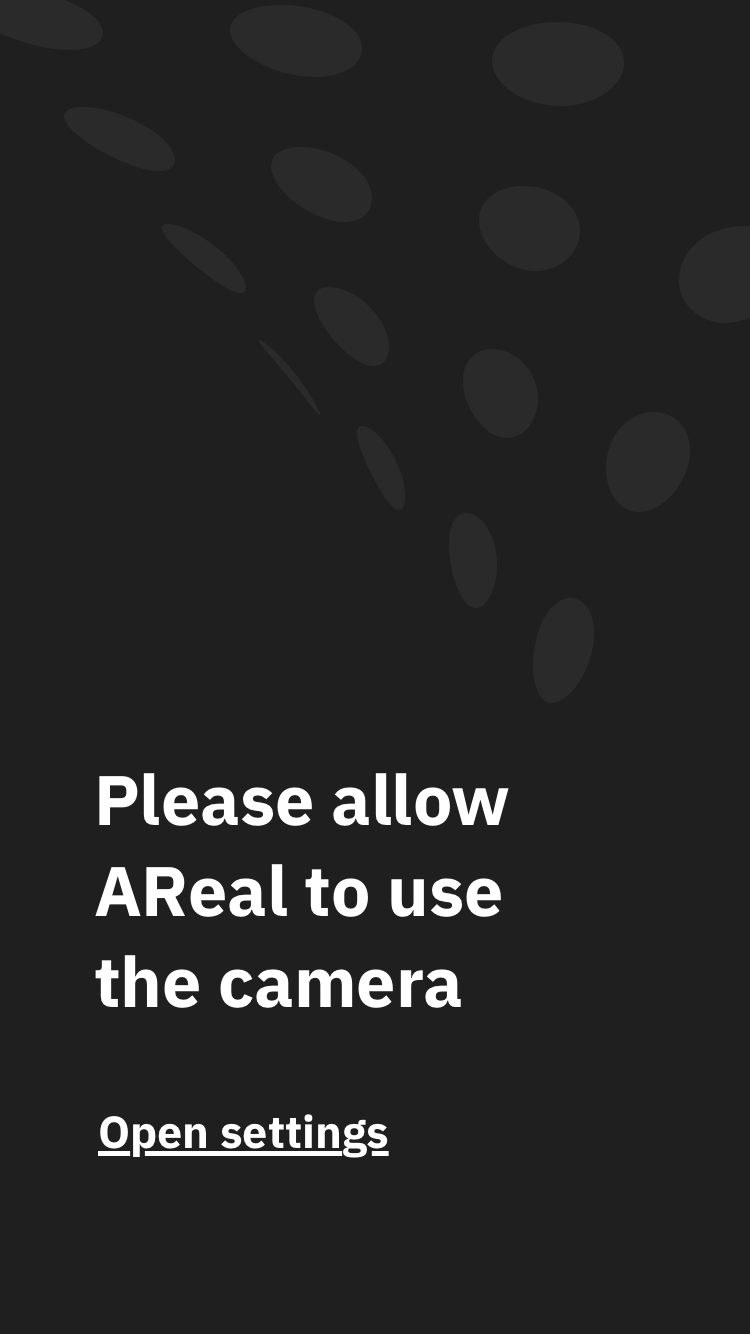
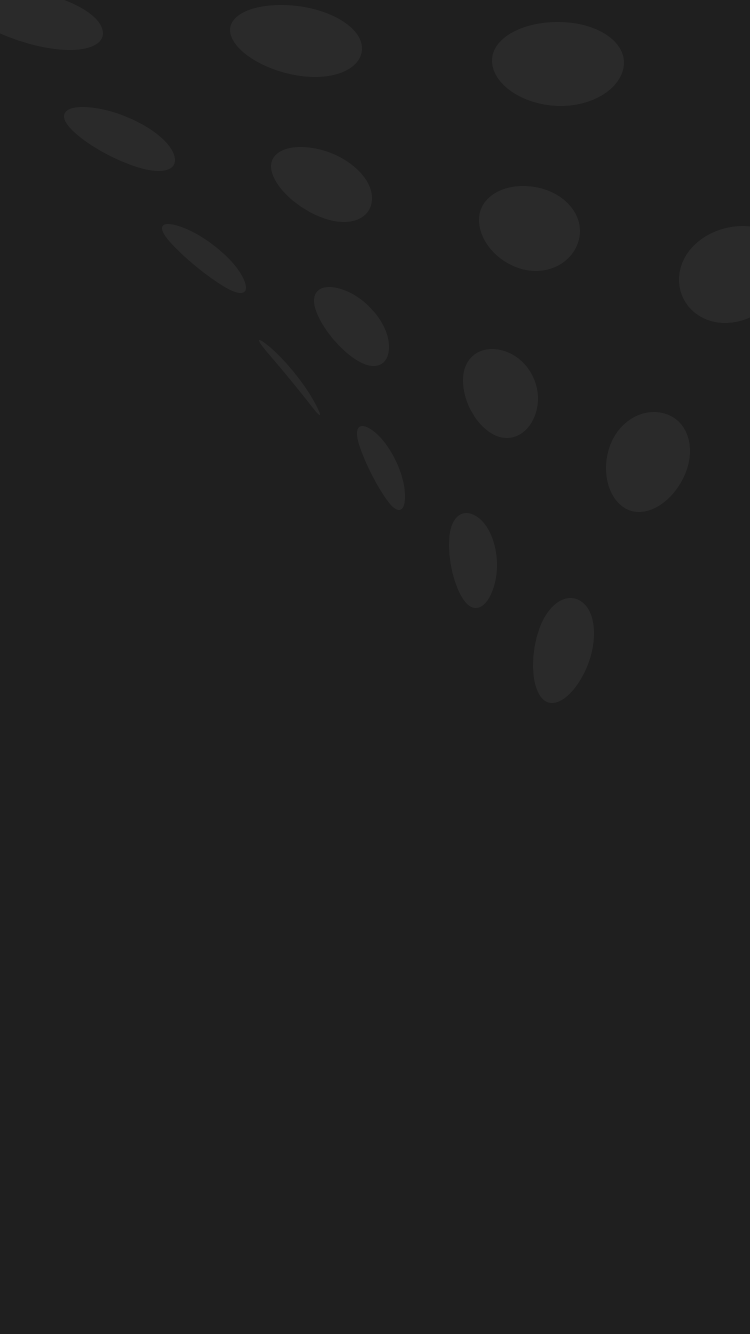
todo share

Changed region(s): [[0.1227, 0.584, 0.6747, 0.7684], [0.1227, 0.8298, 0.5213, 0.8913]]

diff --git a/Assets/Scripts/CanvasController.cs b/Assets/Scripts/CanvasController.cs
@@ -68,15 +68,15 @@ public class CanvasController : MonoBehaviour {
 		hide_info_Button();
 		hide_screenShot_btn ();
 		isFirstSession = SaveManager.Instance.session_state.isFirstEnter;
-		Debug.Log("mySession - " + isFirstSession);
 
 
 
 		if(!isFirstSession){
-			startGeneratePlane();
 			show_info_Button();
 		} 
-		else show_intro();
+
+
+		startGeneratePlane();
 
 		bool isX = UnityEngine.iOS.Device.generation == UnityEngine.iOS.DeviceGeneration.iPhoneX;
 		if(isX){
@@ -85,16 +85,16 @@ public class CanvasController : MonoBehaviour {
 			find_surface_Panel.transform.position += new Vector3(0,-120f,0);			
 		}
 
-		if (UnityEngine.iOS.Device.generation == UnityEngine.iOS.DeviceGeneration.iPadPro10Inch1Gen || 
-		UnityEngine.iOS.Device.generation == UnityEngine.iOS.DeviceGeneration.iPadPro10Inch2Gen || 
-		UnityEngine.iOS.Device.generation == UnityEngine.iOS.DeviceGeneration.iPad5Gen){
-			mIpadupperPanel.transform.position += new Vector3(0,400,0);
-			mIpadbotPanel.transform.position += new Vector3(0,400,0);
-		} else if (UnityEngine.iOS.Device.generation == UnityEngine.iOS.DeviceGeneration.iPadPro2Gen ||
-		UnityEngine.iOS.Device.generation == UnityEngine.iOS.DeviceGeneration.iPadPro1Gen){
-			mIpadupperPanel.transform.position += new Vector3(0,450,0);
-			mIpadbotPanel.transform.position += new Vector3(0,450,0);
-		}
+		// if (UnityEngine.iOS.Device.generation == UnityEngine.iOS.DeviceGeneration.iPadPro10Inch1Gen || 
+		// UnityEngine.iOS.Device.generation == UnityEngine.iOS.DeviceGeneration.iPadPro10Inch2Gen || 
+		// UnityEngine.iOS.Device.generation == UnityEngine.iOS.DeviceGeneration.iPad5Gen){
+		// 	mIpadupperPanel.transform.position += new Vector3(0,400,0);
+		// 	mIpadbotPanel.transform.position += new Vector3(0,400,0);
+		// } else if (UnityEngine.iOS.Device.generation == UnityEngine.iOS.DeviceGeneration.iPadPro2Gen ||
+		// UnityEngine.iOS.Device.generation == UnityEngine.iOS.DeviceGeneration.iPadPro1Gen){
+		// 	mIpadupperPanel.transform.position += new Vector3(0,450,0);
+		// 	mIpadbotPanel.transform.position += new Vector3(0,450,0);
+		// }
 	}
 
 //
@@ -212,6 +212,9 @@ public class CanvasController : MonoBehaviour {
 	void startGeneratePlane(){
 		intro_Panel.SetActive(false);
 		generatePlaneScript.initStart();
+		Invoke("showFirstHelp",0.3f);
+	}
+	private void showFirstHelp(){
 		show_find_surface_info();
 	}
 	private void setCanvasAnimatorParametr(int transitionState){

diff --git a/Assets/CameraPermissionChecker.cs b/Assets/CameraPermissionChecker.cs
@@ -7,7 +7,6 @@ using System.IO;
 using UnityEngine.SceneManagement;
 
 public class CameraPermissionChecker : MonoBehaviour {
-    [SerializeField] private Image warningBoard;
 	[SerializeField] private GameObject backGround_Panel;
 
 	[SerializeField] SupCanvasController ccontroller;
@@ -16,36 +15,16 @@ public class CameraPermissionChecker : MonoBehaviour {
 	private bool permissionAsked = false;
 
 
-    private void SampleCallback(string permissionWasGranted)
-    {       
-        if (permissionWasGranted == "true" )
-        {
-			loadScene();
-        }
-        else
-        {
-			warningBoard.gameObject.SetActive(true);
-			ccontroller.hide_backGround_Panel();
-        }
-		SaveManager.Instance.permission_state.isPermissionAsked = true;
-		SaveManager.Instance.SavePermissionRequest();
-    }
+
 
 	void Start () {
-		permissionAsked = SaveManager.Instance.permission_state.isPermissionAsked;
-		Debug.Log("permissionAsked res - " + permissionAsked);
-		ccontroller.setIntroVisible(!permissionAsked);
+		permissionAsked = SaveManager.Instance.session_state.isPermissionRequested;
+		var isFirstSession = SaveManager.Instance.session_state.isFirstEnter;
+		ccontroller.setIntroVisible(isFirstSession);
 
 		if (permissionAsked){
-			verifyPermission();
-			
-			
-		} else {
-			
-			Debug.Log("NoPermission");
-		}
-
-		
+			verifyPermission();	
+		} 
 	}
 
 	public void verifyPermission(){
@@ -55,6 +34,19 @@ public class CameraPermissionChecker : MonoBehaviour {
 	private void loadScene(){
 		SceneManager.LoadScene("ArealMainScene",LoadSceneMode.Single);
 	}
+	    private void SampleCallback(string permissionWasGranted)
+    {       
+        if (permissionWasGranted == "true" )
+        {
+			loadScene();
+        }
+        else
+        {
+			ccontroller.showWarningText();
+        }
+
+		SaveManager.Instance.SavePermissionRequest();
+    }
 }
 
 

diff --git a/Assets/Scripts/SaveManager.cs b/Assets/Scripts/SaveManager.cs
@@ -9,10 +9,6 @@ public class SaveManager : MonoBehaviour {
 	public SaveState.PermissionState permission_state;
 	public SaveState session_state;
 
-	public int SCENE = 1;
-
-	private int MAIN_SCENE = 1;
-	private int SUPPORT_SCENE = 0;
 
 	private void Awake() {
 
@@ -27,26 +23,22 @@ public class SaveManager : MonoBehaviour {
 		PlayerPrefs.SetString(SAVE_SASSION_KEY, SaveHelper.Serialize<SaveState>(session_state));
 	}
 	public void SavePermissionRequest(){
+
 		permission_state.isPermissionAsked = true;
 		PlayerPrefs.SetString(SAVE_PERMISSION_REQUEST_KEY, SaveHelper.Serialize<SaveState.PermissionState>(permission_state));
 	}
 
 	public void Load() {
-		if( SCENE == MAIN_SCENE) {
-			if(PlayerPrefs.HasKey(SAVE_SASSION_KEY)){
-				session_state = SaveHelper.Deserialize<SaveState>(PlayerPrefs.GetString(SAVE_SASSION_KEY));
-			}else{
-				session_state = new SaveState();
-				session_state.isFirstEnter = true;
-			}
+		Debug.Log("Checker manager started");
+
+		if(PlayerPrefs.HasKey(SAVE_SASSION_KEY)){
+			session_state = SaveHelper.Deserialize<SaveState>(PlayerPrefs.GetString(SAVE_SASSION_KEY));
+			session_state.isPermissionRequested = true;
+		} else {
+			session_state = new SaveState();
+			session_state.isFirstEnter = true;
+			session_state.isPermissionRequested = false;
+		}
 			
-		} else if (SCENE == SUPPORT_SCENE) {
-			if(PlayerPrefs.HasKey(SAVE_PERMISSION_REQUEST_KEY)){
-				permission_state = SaveHelper.Deserialize<SaveState.PermissionState>(PlayerPrefs.GetString(SAVE_PERMISSION_REQUEST_KEY));
-			} else {
-				permission_state = new SaveState.PermissionState();
-				permission_state.isPermissionAsked = false;
-			}	
-		} 
 	}
 }

diff --git a/Assets/SupCanvasController.cs b/Assets/SupCanvasController.cs
@@ -15,6 +15,9 @@ public class SupCanvasController : MonoBehaviour {
 
 	[SerializeField] GameObject upPanel, botPanel,backGround;
 
+	[SerializeField] Text warningTxt, linkTxt;
+	[SerializeField] Button settingsButton;
+
 	void Start(){
 				if (UnityEngine.iOS.Device.generation == UnityEngine.iOS.DeviceGeneration.iPadPro10Inch1Gen || 
 		UnityEngine.iOS.Device.generation == UnityEngine.iOS.DeviceGeneration.iPadPro10Inch2Gen || 
@@ -38,11 +41,17 @@ public class SupCanvasController : MonoBehaviour {
 	}
 
 	public void intro_anim_EVENT(){
+		intro_Panel.SetActive(false);
 		util.GetComponent<CameraPermissionChecker>().verifyPermission();	
 	}
-	public void hide_backGround_Panel(){
-		backGround.SetActive(false);
+	public void showWarningText(){
+		warningTxt.gameObject.SetActive(true);
+		linkTxt.gameObject.SetActive(true);
+		settingsButton.gameObject.SetActive(true);
 	}
 
+	public void openSettings(){
+		NativeSettings.GetSettingsURL_Native();
+	}
 
 }

diff --git a/Assets/Plugins/iOS/SettingsPlugin.mm b/Assets/Plugins/iOS/SettingsPlugin.mm
@@ -1,0 +1,29 @@
+extern "C" {
+    // Helper method to create C string copy
+    char* MakeStringCopy (NSString* nsstring)
+    {
+        if (nsstring == NULL) {
+            return NULL;
+        }
+        // convert from NSString to char with utf8 encoding
+        const char* string = [nsstring cStringUsingEncoding:NSUTF8StringEncoding];
+        if (string == NULL) {
+            return NULL;
+        }
+
+        // create char copy with malloc and strcpy
+        char* res = (char*)malloc(strlen(string) + 1);
+        strcpy(res, string);
+        return res;
+    }
+
+    const char* GetSettingsURL () {
+         NSURL * url = [NSURL URLWithString: UIApplicationOpenSettingsURLString];
+         return MakeStringCopy(url.absoluteString);
+    }
+
+    void OpenSettings () {
+        NSURL * url = [NSURL URLWithString: UIApplicationOpenSettingsURLString];
+        [[UIApplication sharedApplication] openURL: url];
+    }
+}

diff --git a/Assets/Plugins/iOS/NativeSettings.cs b/Assets/Plugins/iOS/NativeSettings.cs
@@ -1,0 +1,29 @@
+using UnityEngine;
+#if UNITY_IOS && !UNITY_EDITOR
+using System.Runtime.InteropServices;
+#endif
+
+public static class NativeSettings {
+
+	#if UNITY_IOS && !UNITY_EDITOR
+        [DllImport ("__Internal")]
+        public static extern string GetSettingsURL();
+	#endif
+
+	#if UNITY_IOS && !UNITY_EDITOR
+        [DllImport ("__Internal")]
+        public static extern void OpenSettings();
+    #endif
+
+	public static void GetSettingsURL_Native(){
+		#if UNITY_IOS && !UNITY_EDITOR
+			string url = GetSettingsURL();
+			Application.OpenURL(url);
+		#endif
+	}
+	public static void OpenSettings_Native(){
+		#if UNITY_IOS && !UNITY_EDITOR
+			OpenSettings();
+		#endif
+	}
+}

diff --git a/Assets/Scripts/SaveState.cs b/Assets/Scripts/SaveState.cs
@@ -1,7 +1,8 @@
 
 public class SaveState  {
 
-		public bool isFirstEnter = true;		
+		public bool isFirstEnter = true;	
+		public bool isPermissionRequested = false;	
 
 	public class SessionState {
 		public SessionState(){}
